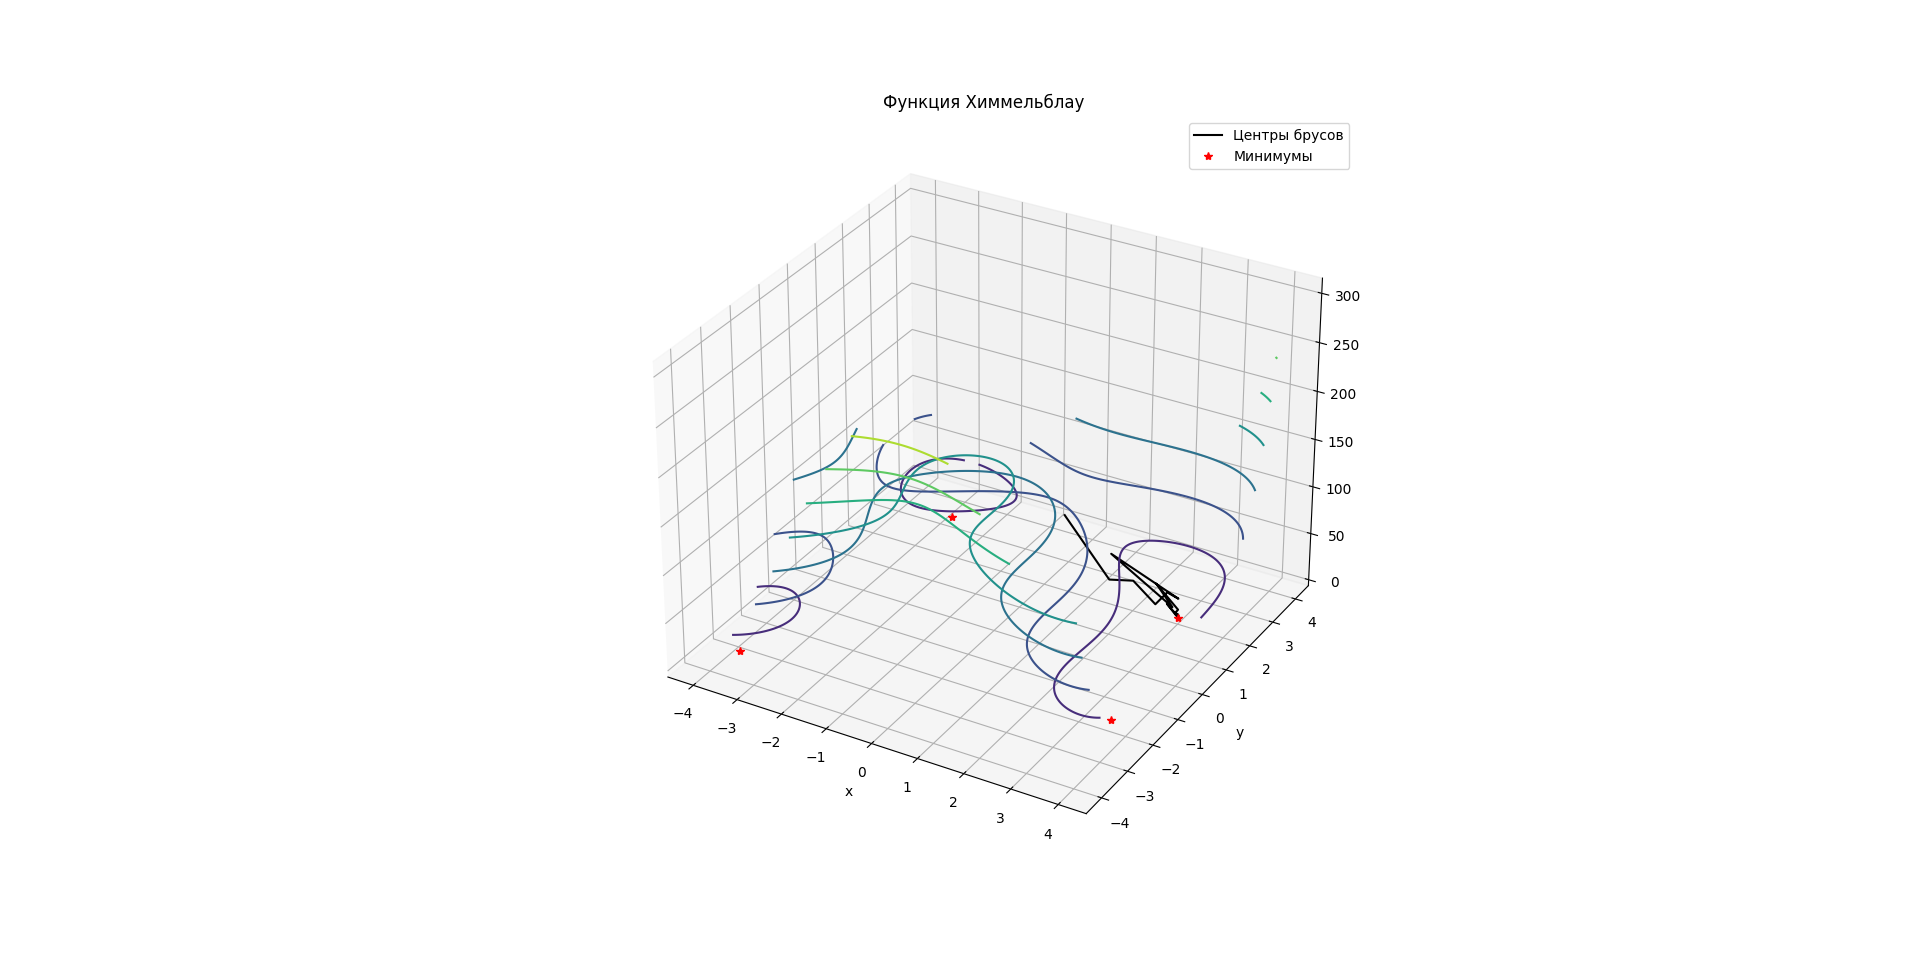
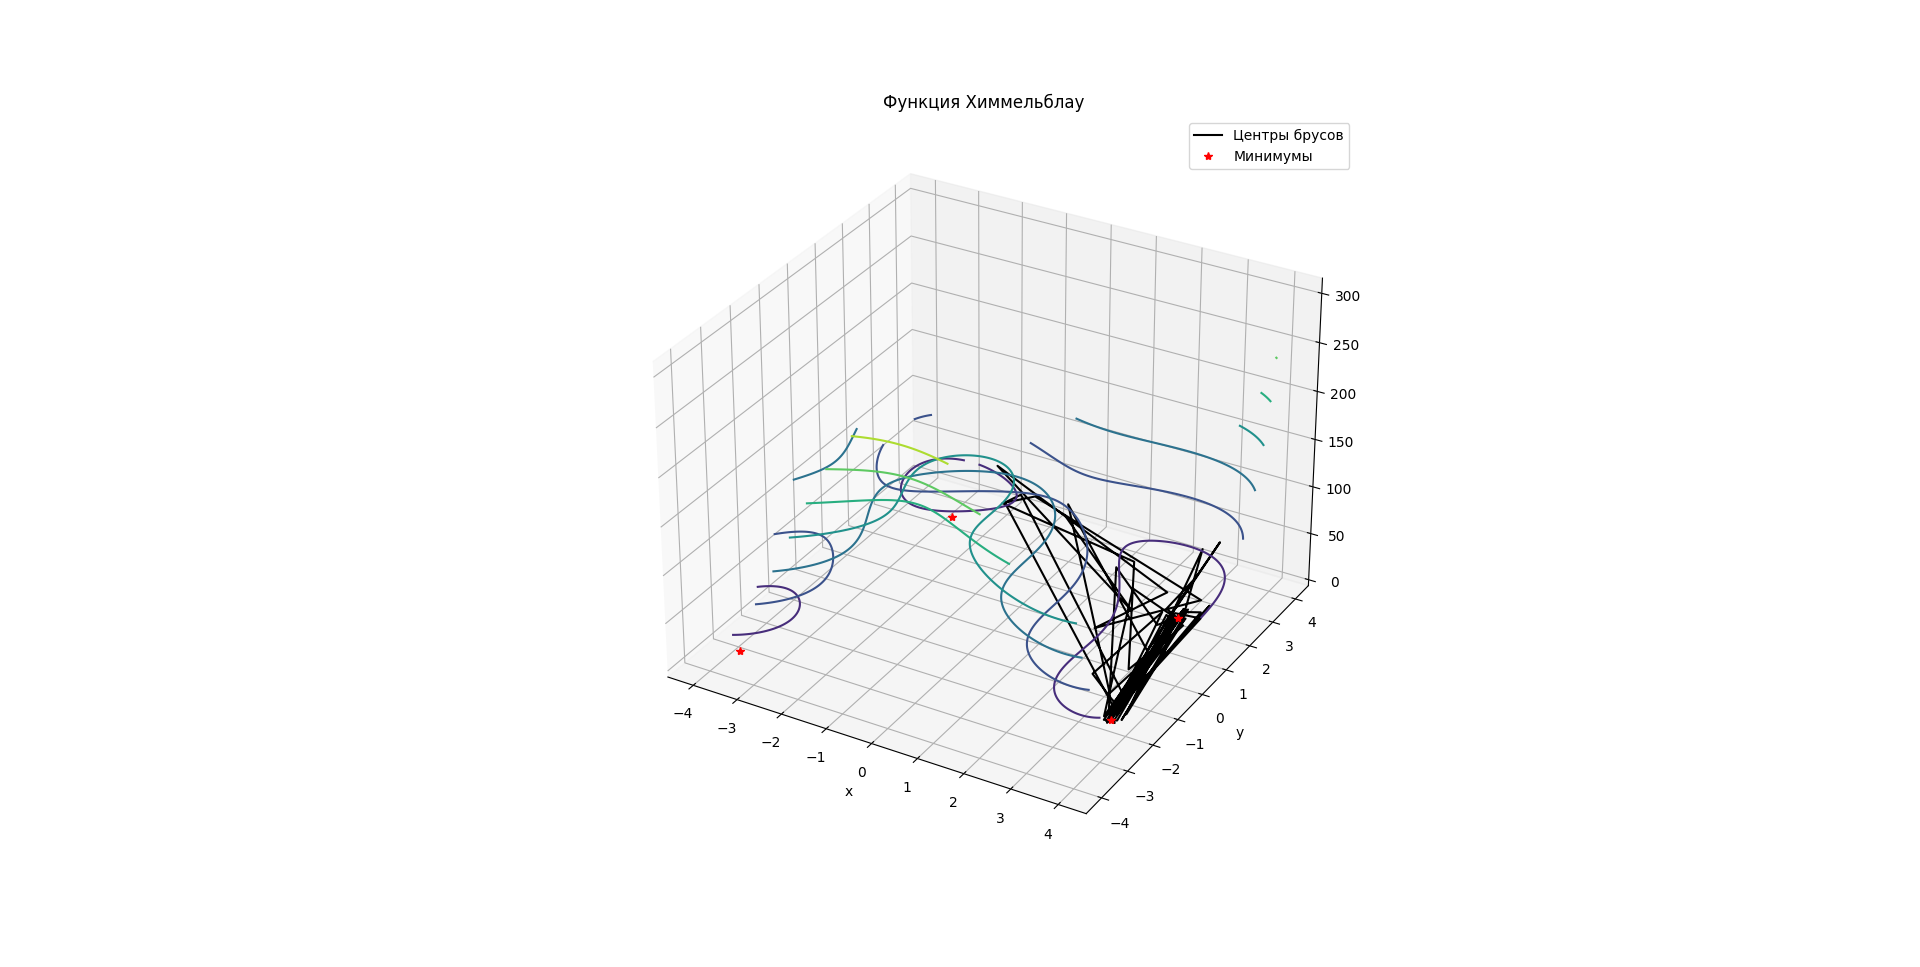
Fix initial interval for himmelblau

Changed region(s): [[0.5312, 0.4964, 0.625, 0.7446]]

diff --git a/lab1/global_opt.py b/lab1/global_opt.py
@@ -90,7 +90,7 @@ plt.show()
 
 
 mid = np.ones(2)
-rad = np.ones(2) * 2
+rad = np.ones(2) * 3
 y_opt, list = glob_opt(himmelblau, 0.01, ip.Interval(mid, rad, midRadQ=True))
 
 x, y = np.mgrid[-4:4:400j, -4:4:400j]
